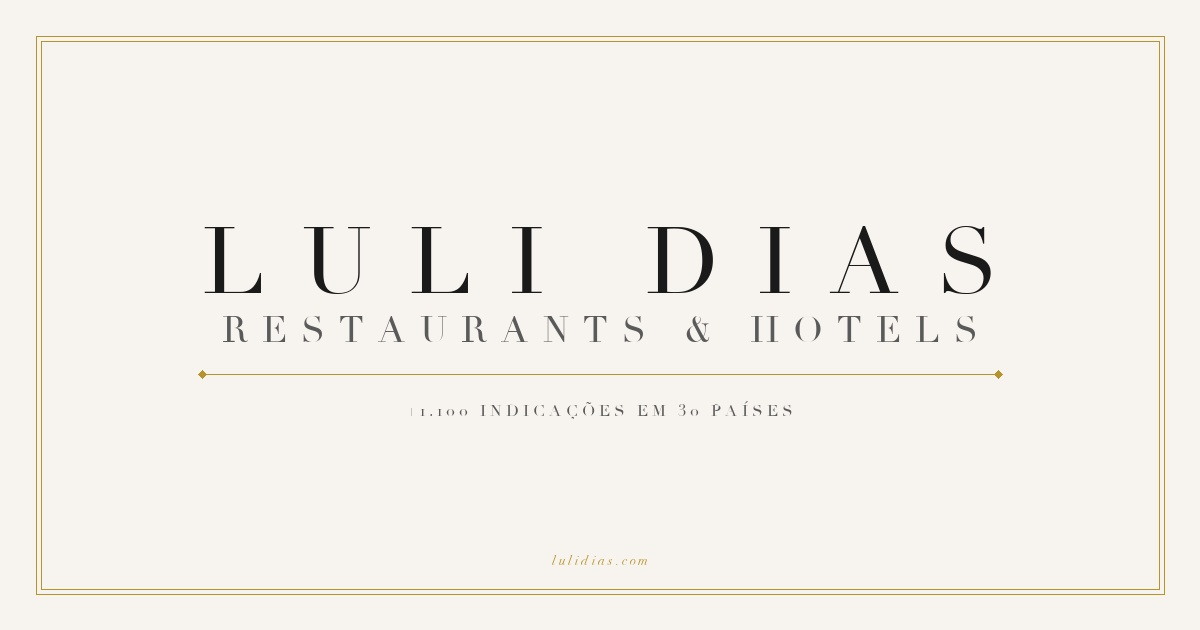
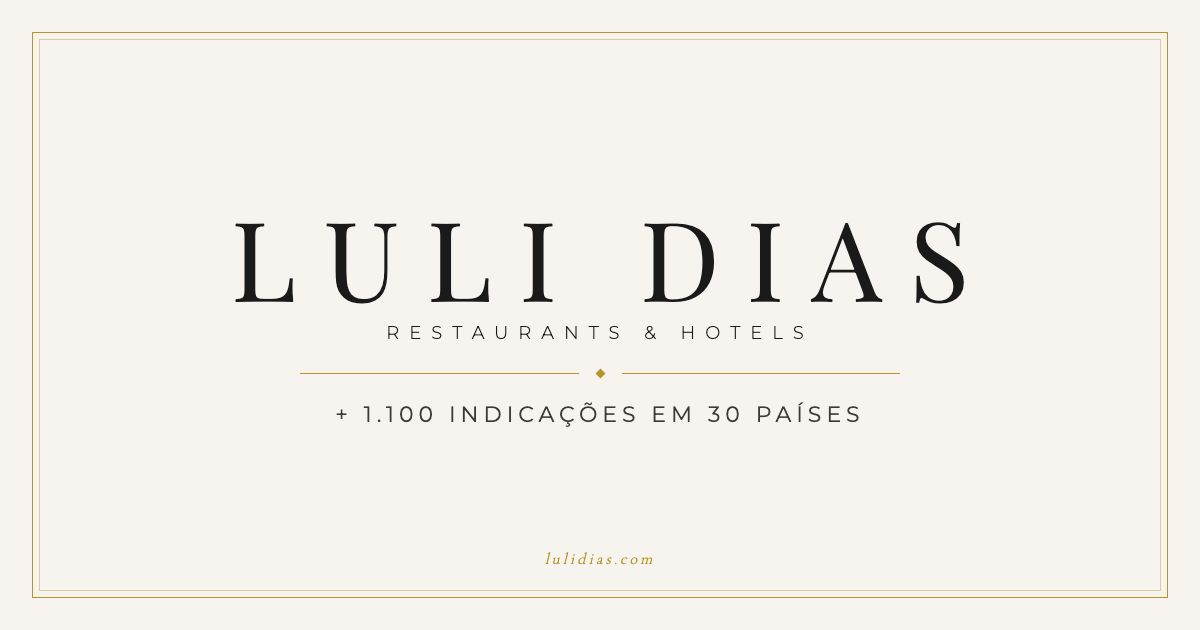
og-image: aumenta texto da contagem (legível no WA)
Texto '+ 1.100 Indicações em 30 Países' de ~12px para 22px.
Adiciona og-image-source.html para regeneração futura via Playwright.

diff --git a/og-image-source.html b/og-image-source.html
@@ -1,0 +1,109 @@
+<!DOCTYPE html>
+<html>
+<head>
+<meta charset="UTF-8">
+<link href="https://fonts.googleapis.com/css2?family=Playfair+Display:wght@400;700&family=Cormorant+Garamond:wght@300;400&family=Montserrat:wght@300;400;500&display=swap" rel="stylesheet">
+<style>
+  * { margin: 0; padding: 0; box-sizing: border-box; }
+  body {
+    width: 1200px;
+    height: 630px;
+    background: #F7F3EE;
+    display: flex;
+    align-items: center;
+    justify-content: center;
+    overflow: hidden;
+  }
+  .frame {
+    width: 1136px;
+    height: 566px;
+    border: 1.5px solid #B8922A;
+    position: relative;
+    display: flex;
+    flex-direction: column;
+    align-items: center;
+    justify-content: center;
+    gap: 0;
+  }
+  .frame::before {
+    content: '';
+    position: absolute;
+    inset: 6px;
+    border: 0.5px solid #B8922A;
+    opacity: 0.4;
+    pointer-events: none;
+  }
+  .brand-name {
+    font-family: 'Playfair Display', 'Georgia', serif;
+    font-size: 110px;
+    font-weight: 400;
+    color: #1A1A1A;
+    letter-spacing: 28px;
+    padding-left: 28px;
+    line-height: 1;
+    text-align: center;
+  }
+  .brand-tagline {
+    font-family: 'Montserrat', sans-serif;
+    font-size: 18px;
+    font-weight: 300;
+    color: #1A1A1A;
+    letter-spacing: 10px;
+    text-transform: uppercase;
+    margin-top: 10px;
+    text-align: center;
+  }
+  .divider {
+    display: flex;
+    align-items: center;
+    gap: 18px;
+    margin: 26px 0 24px;
+    width: 600px;
+  }
+  .divider-line {
+    flex: 1;
+    height: 1px;
+    background: #B8922A;
+  }
+  .divider-diamond {
+    width: 7px;
+    height: 7px;
+    background: #B8922A;
+    transform: rotate(45deg);
+    flex-shrink: 0;
+  }
+  .stat {
+    font-family: 'Montserrat', sans-serif;
+    font-size: 22px;
+    font-weight: 400;
+    color: #3A3A3A;
+    letter-spacing: 5px;
+    text-transform: uppercase;
+    text-align: center;
+  }
+  .domain {
+    position: absolute;
+    bottom: 28px;
+    font-family: 'Cormorant Garamond', Georgia, serif;
+    font-size: 16px;
+    font-weight: 300;
+    color: #B8922A;
+    letter-spacing: 3px;
+    font-style: italic;
+  }
+</style>
+</head>
+<body>
+  <div class="frame">
+    <div class="brand-name">LULI DIAS</div>
+    <div class="brand-tagline">Restaurants &amp; Hotels</div>
+    <div class="divider">
+      <div class="divider-line"></div>
+      <div class="divider-diamond"></div>
+      <div class="divider-line"></div>
+    </div>
+    <div class="stat">+ 1.100 Indicações em 30 Países</div>
+    <div class="domain">lulidias.com</div>
+  </div>
+</body>
+</html>
